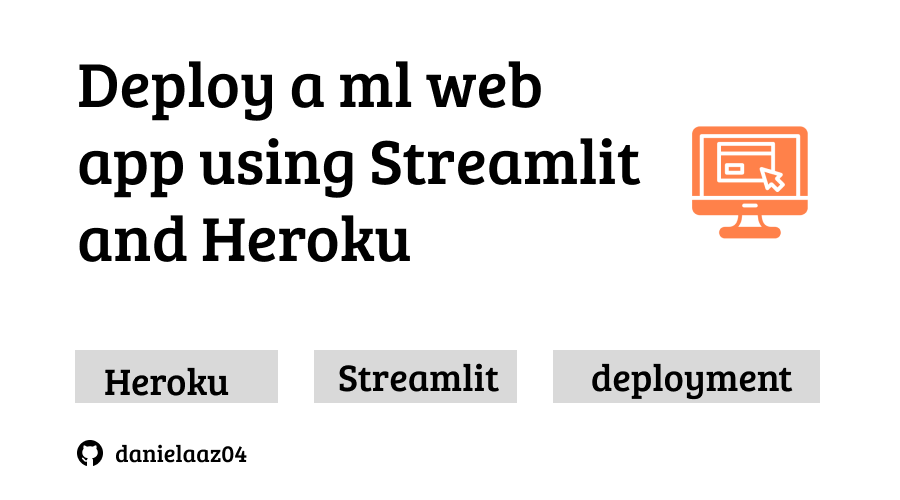
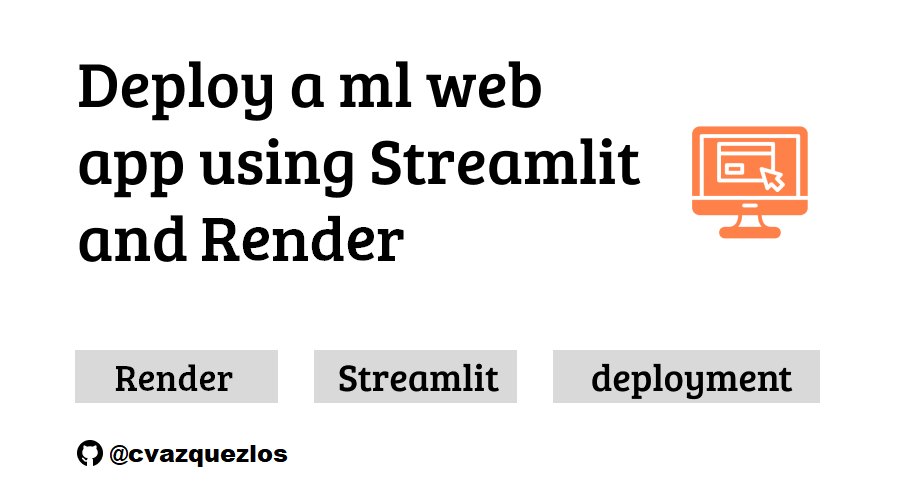
Project content review

Changed region(s): [[0.2178, 0.42, 0.4667, 0.54], [0.0933, 0.72, 0.28, 0.81], [0.1244, 0.87, 0.3422, 0.93]]

diff --git a/README.es.md b/README.es.md
@@ -1,33 +1,32 @@
 <!-- hide -->
-# Aplicación web de Machine Learning con Streamlit
+# Integración de un modelo de ML en Render usando Streamlit - Guía paso a paso
 <!-- endhide -->
 
-- En este proyecto, crearemos una aplicación web de Machine Learning. De nuevo, eres libre de elegir el modelo que prefieras de nuestros proyectos anteriores. ¡Esta vez usarás scripts de Python con tus nuevas habilidades de Streamlit!
-
-> ¡No te olvides de ser siempre ingenioso!
+- Buscar y comprender un dataset nuevo o utilizar el modelo del proyecto anterior.
+- Integrarlo en Render usando una aplicación basada en Streamlit.
 
 ## 🌱  Cómo iniciar este proyecto
 
-1. Crea un nuevo repositorio basado en el [proyecto de machine learning](https://github.com/4GeeksAcademy/machine-learning-python-template/generate) haciendo [clic aquí](https://github.com/4GeeksAcademy/machine-learning-python-template).
-2. Abre el repositorio creado recientemente en Gitpod usando la [extensión del botón de Gitpod](https://www.gitpod.io/docs/browser-extension/).
-3. Una vez que Gitpod VSCode haya terminado de abrir, comienza tu proyecto siguiendo las instrucciones a continuación.
+Esta vez no se hará Fork, tómate un tiempo para leer estas instrucciones:
+
+1. Crear un nuevo repositorio basado en el [proyecto de Machine Learing](https://github.com/4GeeksAcademy/machine-learning-python-template/generate) [haciendo clic aquí](https://github.com/4GeeksAcademy/machine-learning-python-template).
+2. Abre el repositorio creado recientemente en Codespace usando la [extensión del botón de Codespace](https://docs.github.com/en/codespaces/developing-in-codespaces/creating-a-codespace-for-a-repository#creating-a-codespace-for-a-repository).
+3. Una vez que el VSCode del Codespace haya terminado de abrirse, comienza tu proyecto siguiendo las instrucciones a continuación.
 
 ## 🚛 Cómo entregar este proyecto
 
-Una vez que hayas terminado de implementar tu aplicación streamlit, asegúrate de confirmar tus cambios, hazle push a tu repositorio y ve a 4Geeks.com para entregar y cargar el enlace de la aplicación web.
+Una vez que hayas terminado de resolver los ejercicios, asegúrate de confirmar tus cambios, hazle "push" al fork de tu repositorio y ve a 4Geeks.com para subir el enlace del repositorio.
 
 ## 📝 Instrucciones
 
-**Paso 1:**
+### Paso 1: Entrena un nuevo modelo o elige el del proyecto anterior
 
-Ahora que has aprendido cómo debería verse su estructura final, agrega los archivos necesarios a la carpeta del proyecto actual para tener la estructura correcta y edita los necesarios.
+En el módulo de despliegue con Flask buscamos un conjunto de datos y entrenamos un modelo que posteriormente utilizamos en una aplicación web desarrollada en Flask y que desplegamos en Render. En este proyecto puedes utilizar el mismo modelo y cambiar únicamente la aplicación web, o buscar otro conjunto de datos y entrenar un nuevo modelo.
 
-**Paso 2:**
+### Paso 2: Desarrolla una aplicación web usando Streamlit
 
-Nuevamente, usa el archivo .pkl (modelo) de tu proyecto preferido y crea tu aplicación web de Machine Learning. Esta vez, muestra tus nuevas habilidades con Streamlit para crear una hermosa aplicación web.
+Con los conocimientos adquiridos en este módulo, desarrolla una interfaz para poder utilizar el modelo. Dale el estilo que más te convenga y anota los recursos externos que hayas utilizado para el desarrollo.
 
-**Paso 3:**
+### Paso 3: Integra el modelo y la aplicación en Render
 
-¡Implementa tu aplicación en Heroku!
-
-> Usa tu lección [Modelo deploy usando Streamlit y Heroku](https://github.com/4GeeksAcademy/machine-learning-content/blob/master/07-4d-ml_deploy/deploy-model-using-streamlit-and-heroku.md) para guiarte en cada paso.
+Crea un servicio gratuito en Render e integra el trabajo que has hecho para poder desplegar la aplicación web en línea. No olvides de incluir el enlace al servicio en tu repositorio.

diff --git a/README.md b/README.md
@@ -1,35 +1,32 @@
 <!-- hide -->
-# Machine learning web app using Streamlit
+# Integration of a ML model in Render using Streamlit - Step-by-step guide
 <!-- endhide -->
 
-- In this project, we will create a machine learning web application. Again, you are free to choose the model you prefer from our previous projects. This time you will use python scripts with your new Streamlit skills! 
-
->Don't forget to always be resourceful!
+- Find and understand a new dataset or use the model from the previous project.
+- Integrate it into Render using a Streamlit based application.
 
 ## 🌱  How to start this project
 
 You will not be forking this time, please take some time to read these instructions:
 
 1. Create a new repository based on [machine learning project](https://github.com/4GeeksAcademy/machine-learning-python-template/generate) by [clicking here](https://github.com/4GeeksAcademy/machine-learning-python-template).
-2. Open the recently created repository on Gitpod by using the [Gitpod button extension](https://www.gitpod.io/docs/browser-extension/).
-3. Once Gitpod VSCode has finished opening you start your project following the Instructions below.
+2. Open the newly created repository in Codespace using the [Codespace button extension](https://docs.github.com/en/codespaces/developing-in-codespaces/creating-a-codespace-for-a-repository#creating-a-codespace-for-a-repository).
+3. Once the Codespace VSCode has finished opening, start your project by following the instructions below.
 
 ## 🚛 How to deliver this project
 
-Once you are finished deploying your streamlit app, make sure to commit your changes, push to your repository and go to 4Geeks.com to deliver and upload the web application link.
+Once you are finished creating your linear regression model, make sure to commit your changes, push to your repository and go to 4Geeks.com to upload the repository link.
 
 ## 📝 Instructions
 
-**Step 1:**
+### Step 1: Train a new model or choose the one from the previous project.
 
-Now that you have learned what your final structure should look like, add the necessary files to the current project folder in order to have the correct structure, and edit the necessary ones.
+In the Deployment with Flask module we search for a dataset and train a model that we later use in a web application developed in Flask and deploy in Render. In this project you can use the same model and change only the web application, or find another dataset and train a new model.
 
-**Step 2:**
+### Step 2: Develop a web application using Streamlit
 
-Again, use the .pkl file (model) from your preferred project and build your machine learning web application. This time show your Streamlit new skills to make a beautiful web app.
+With the knowledge acquired in this module, develop an interface to be able to use the model. Style it as you see fit and note any external resources you have used for development.
 
-**Step 3:**
+### Step 3: Integrate the model and the application in Render
 
-Deploy your app to Heroku!
-
-> Use your [Deploy model using Streamlit and Heroku](https://github.com/4GeeksAcademy/machine-learning-content/blob/master/07-4d-ml_deploy/deploy-model-using-streamlit-and-heroku.md) lesson to guide you on every step.
+Create a free service in Render and integrate the work you have done to be able to deploy the web application online. Don't forget to include the link to the service in your repository.
